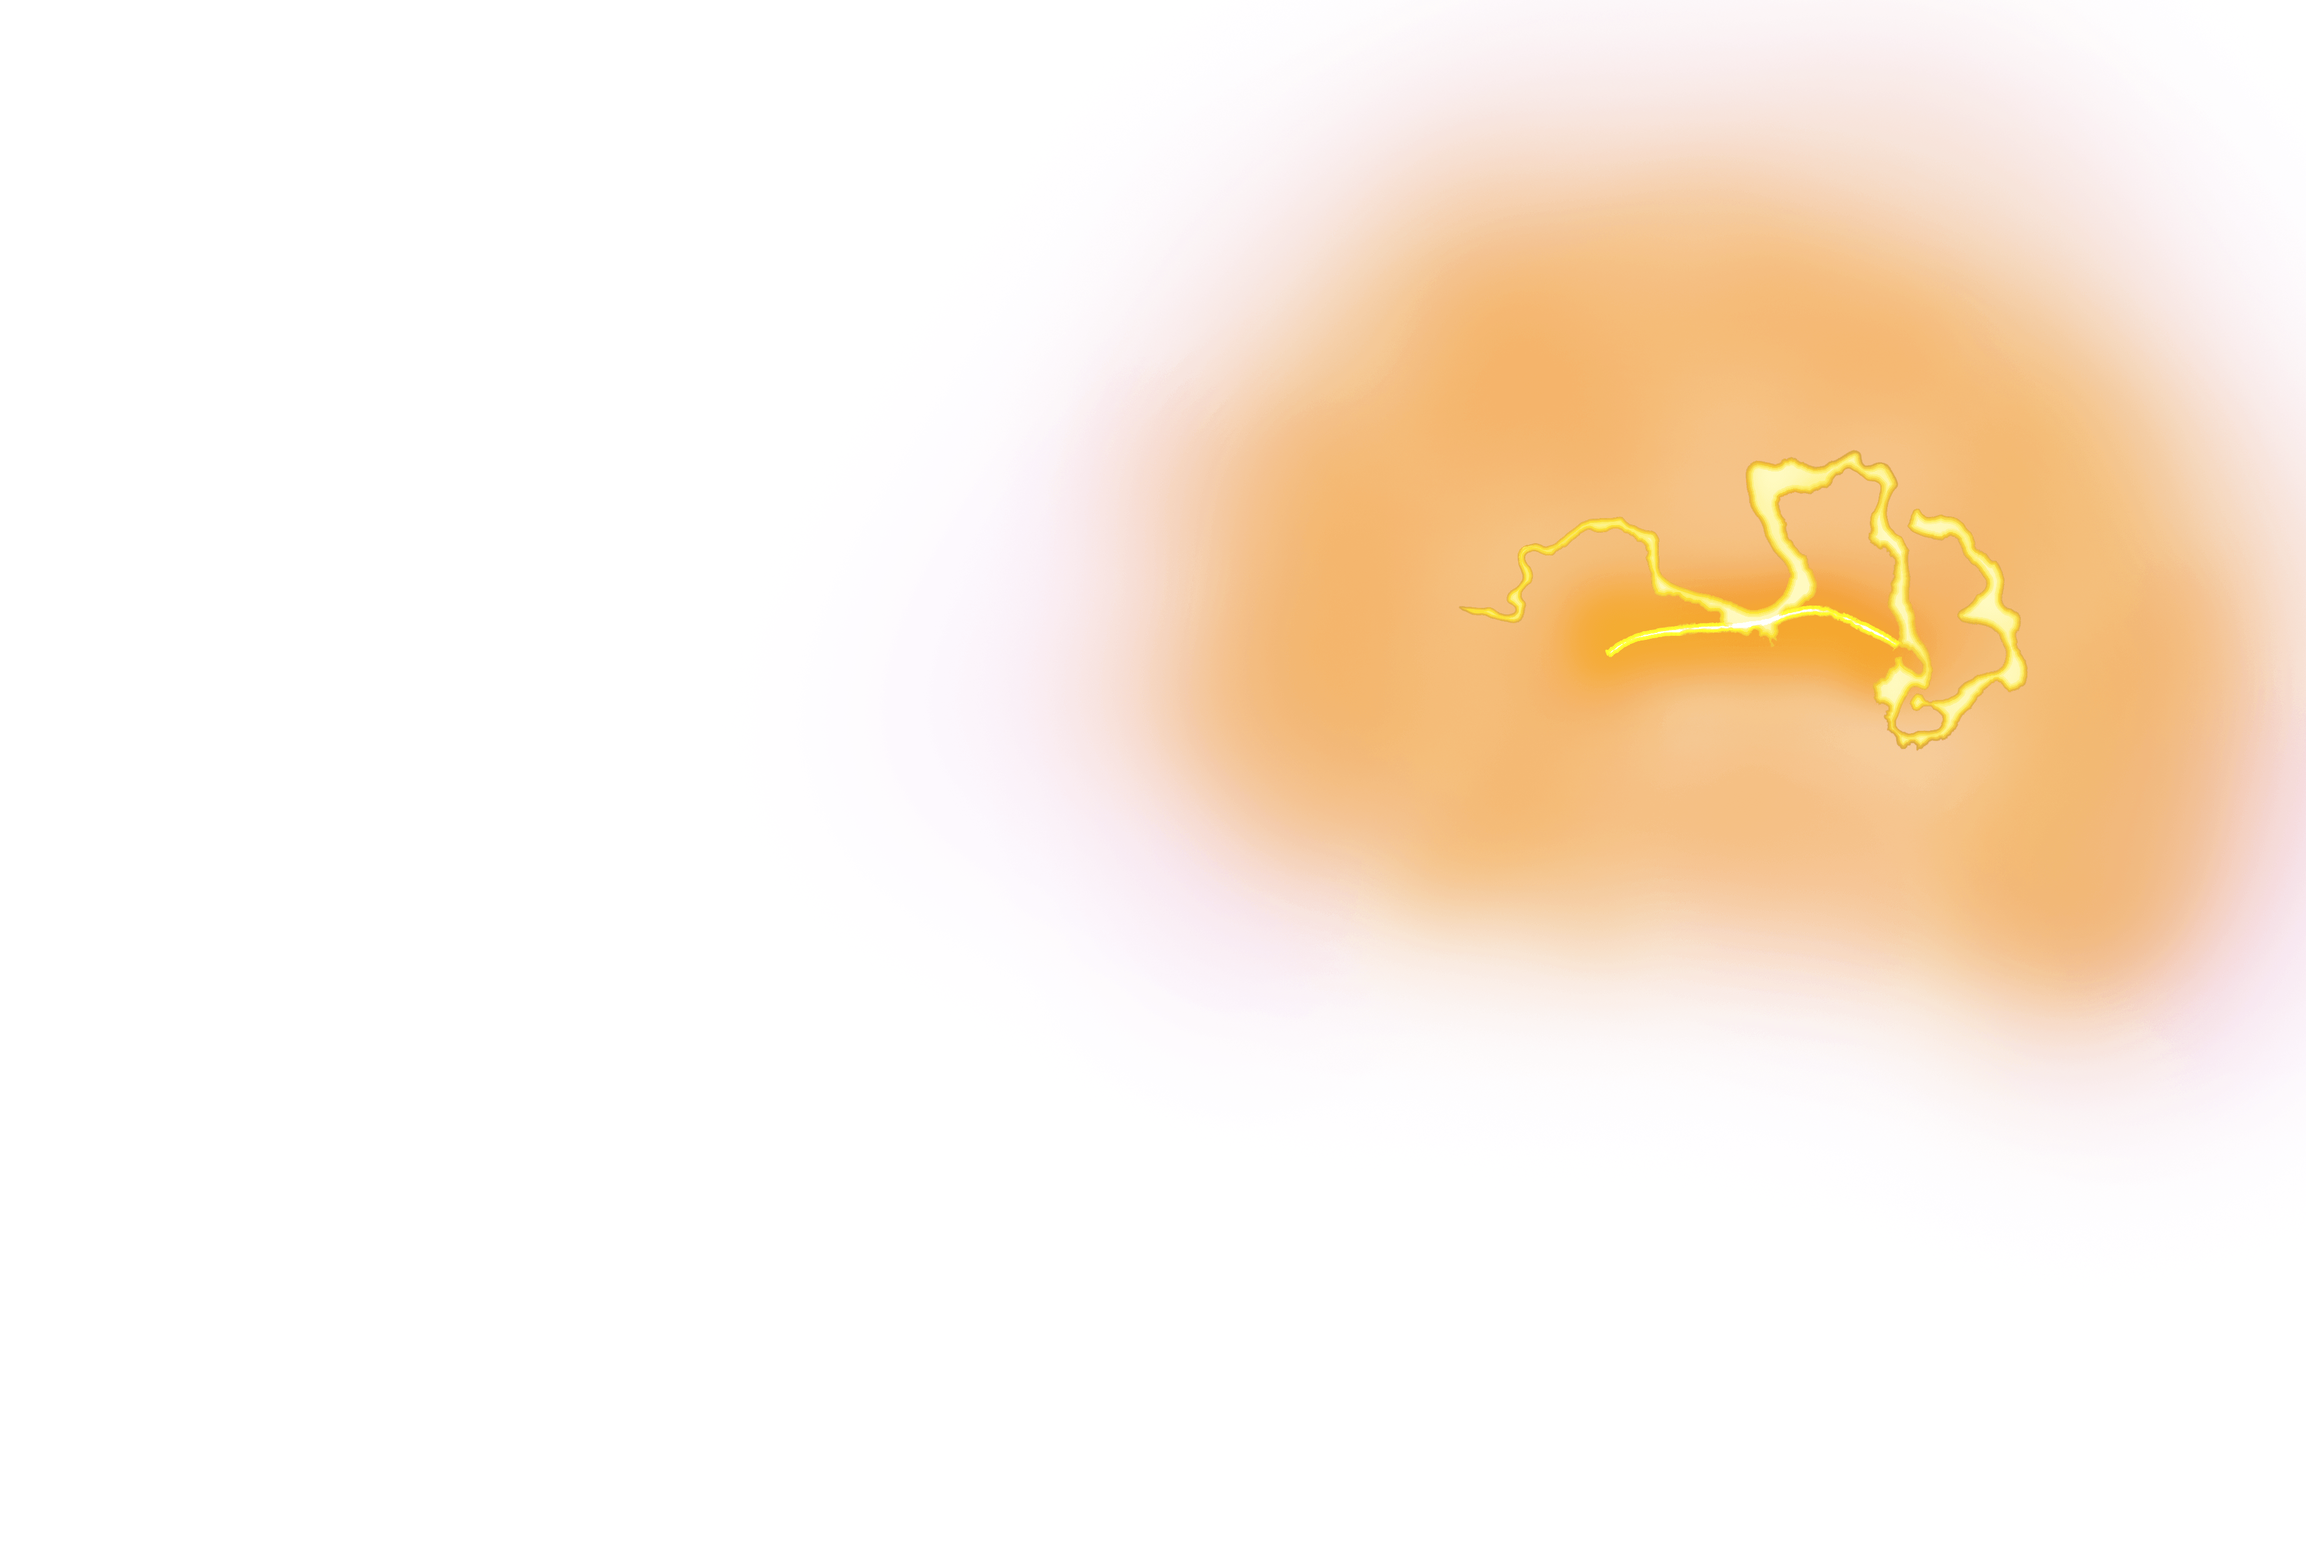
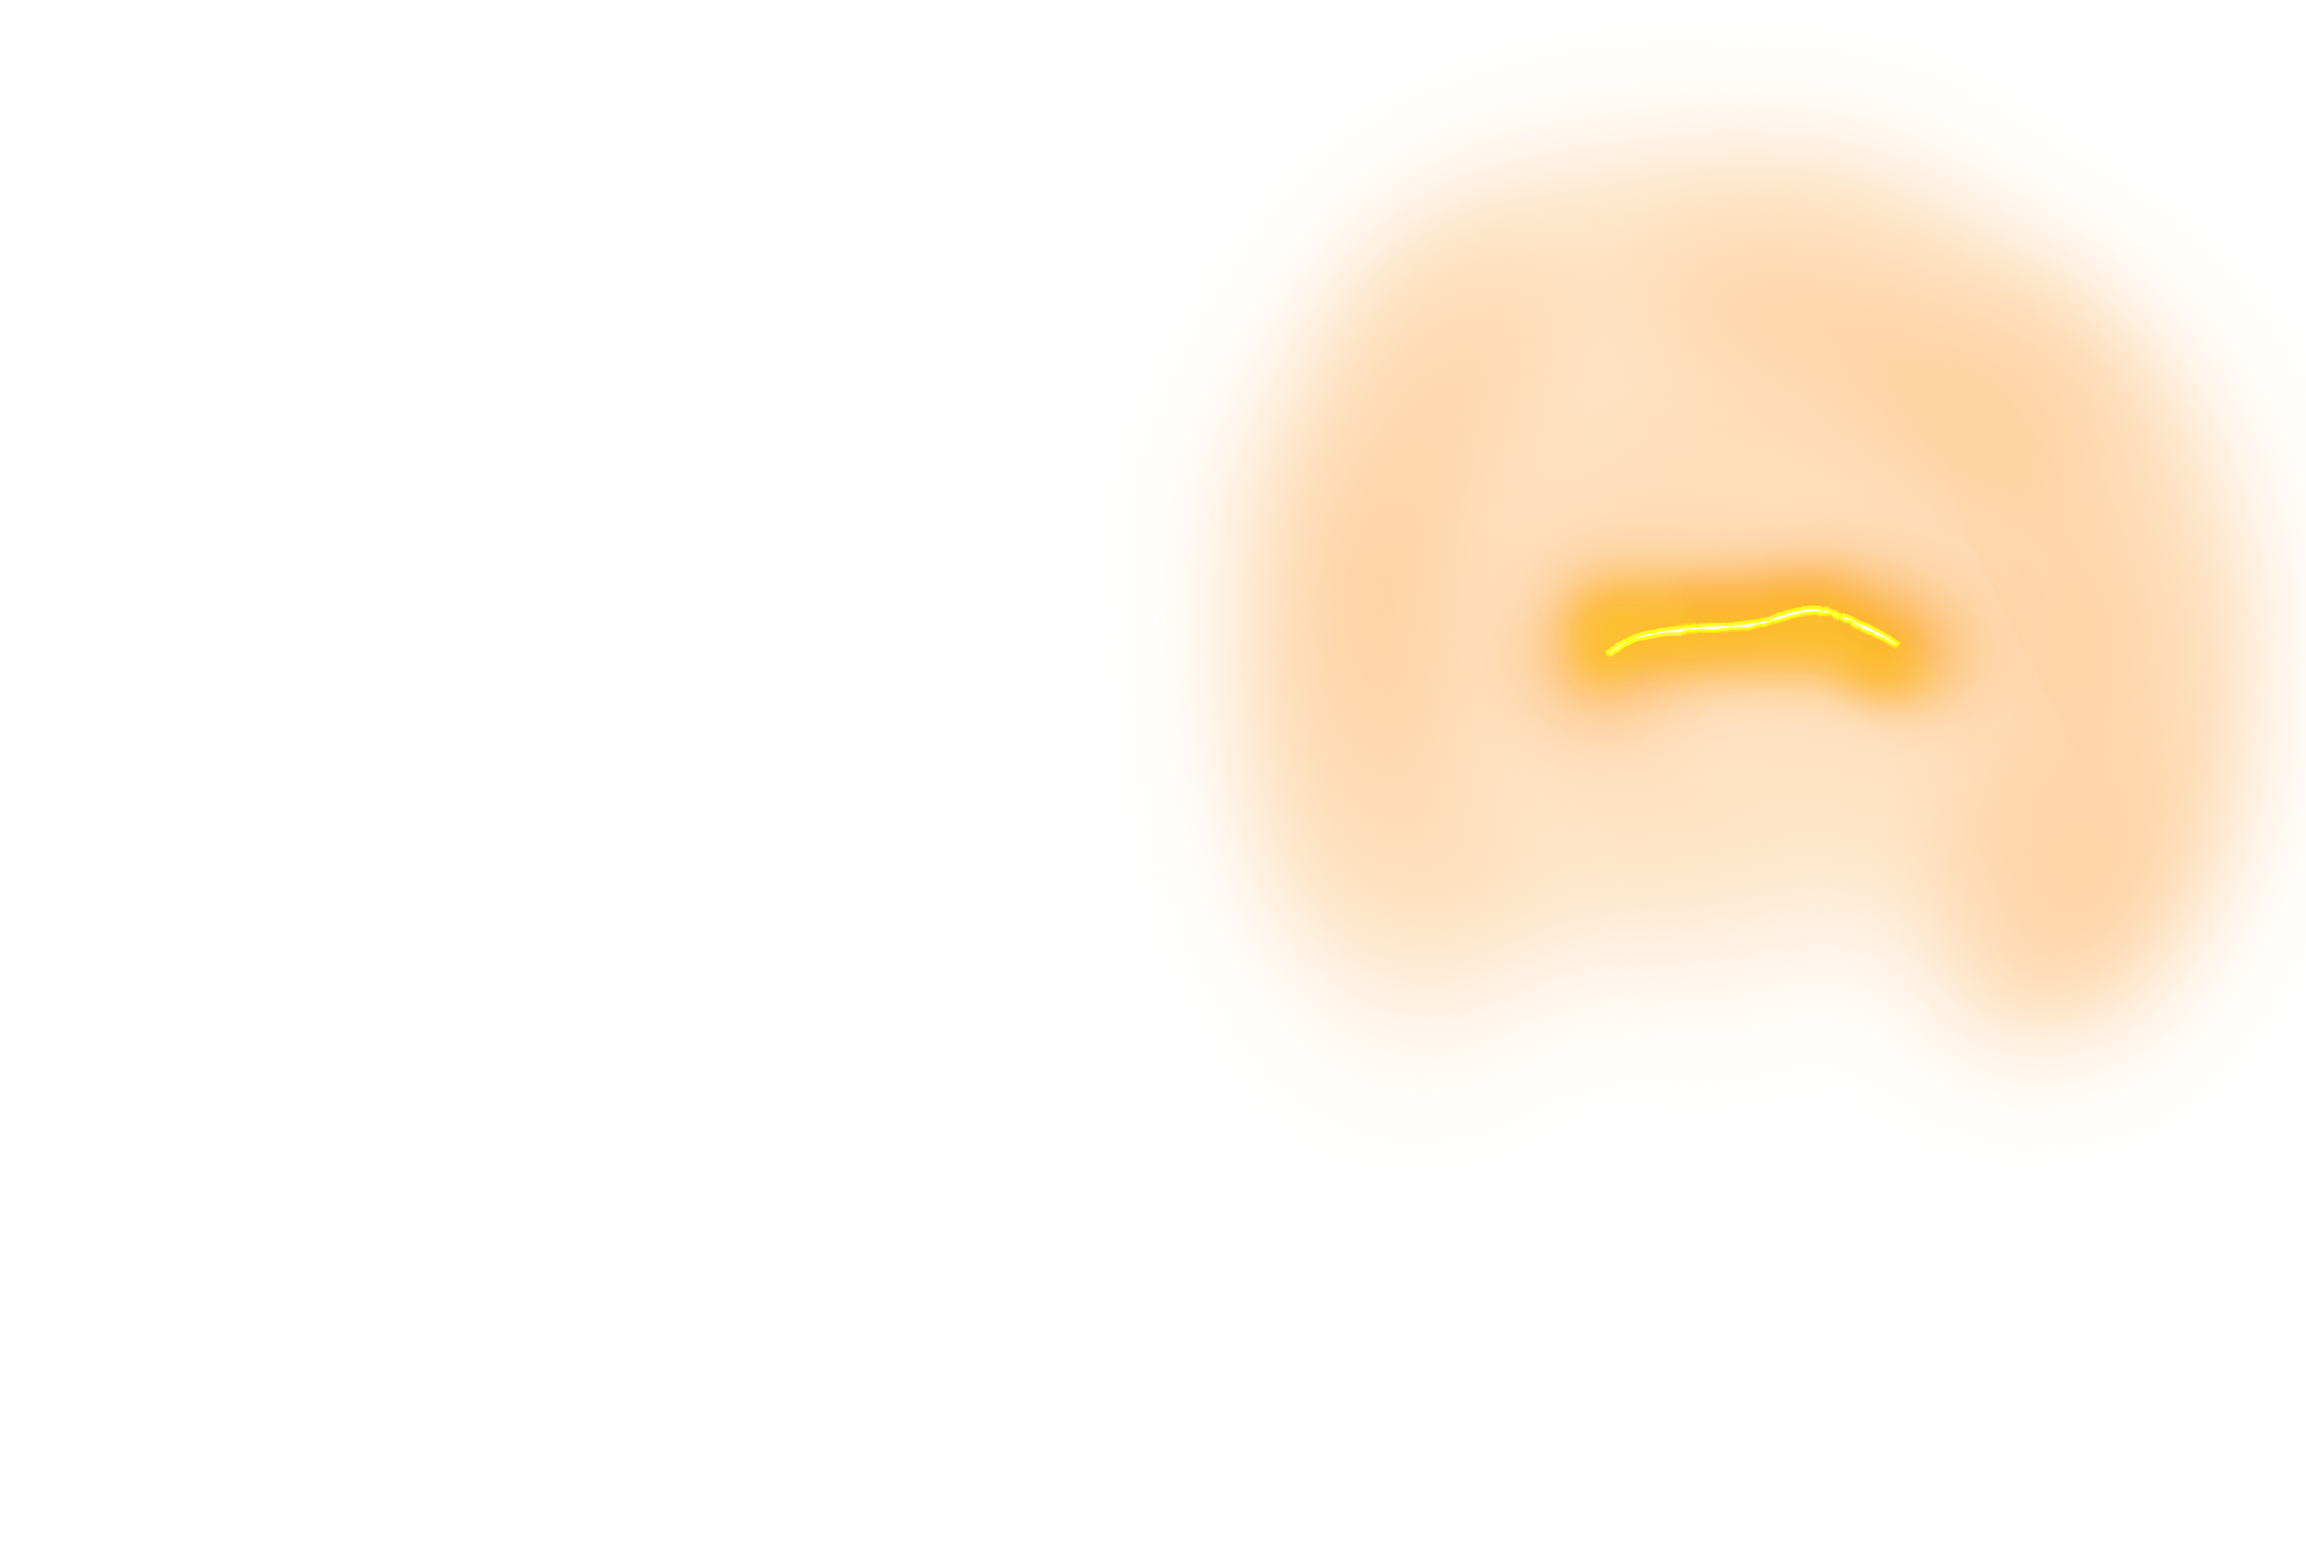
adjusted the graphics again, working colors

Changed region(s): [[0.4665, 0.0618, 1.0, 0.6796], [0.8397, 0.0618, 0.9019, 0.1544]]

diff --git a/src/index.html b/src/index.html
@@ -7,10 +7,9 @@
     <link rel="stylesheet" href="https://cdn.rawgit.com/konpa/devicon/df6431e323547add1b4cf45992913f15286456d3/devicon.min.css">
     <link rel="stylesheet" href="https://use.fontawesome.com/releases/v5.2.0/css/all.css" integrity="sha384-hWVjflwFxL6sNzntih27bfxkr27PmbbK/iSvJ+a4+0owXq79v+lsFkW54bOGbiDQ"
         crossorigin="anonymous">
+    <link href="https://fonts.googleapis.com/css?family=Lora|Nunito" rel="stylesheet">
     <link rel="stylesheet" type="text/css" href="./styles/styles.css">
-
 </head>
-
 <span class="anchor" id="HomeA"></span>
 
 <body>
@@ -47,9 +46,7 @@
             <img id="three" src="./assets/img/bulb3.png" class="bulbImg hideThis">
         </div>
         <main>
-
             <article class="content">
-
                 <span class="anchor" id="BioA"></span>
                 <section id="Bio" class="textContent">
                     <h2 class="sectionHead" id="BioHead">BIOGRAPHY</h2>
@@ -71,7 +68,6 @@
                         </div>
                     </div>
                 </section>
-
                 <span class="anchor" id="ProjectsA"></span>
                 <section id="Projects" class="textContent">
                     <h2 class="sectionHead" id="ProjectsHead">Projects</h2>
@@ -90,7 +86,6 @@
                         </div>
                     </div>
                 </section>
-
                 <span class="anchor" id="SkillsA"></span>
                 <section id="Skills" class="textContent">
                     <h2 class="sectionHead" id="SkillsHead">TECHNOLOGIES & SKILLS</h2>
@@ -169,7 +164,6 @@
                         </div>
                     </div>
                 </section>
-
                 <span class="anchor" id="ContactA"></span>
                 <section id="Contact" class="textContent">
                     <h2 class="sectionHead" id="ContactHead">CONTACT</h2>
@@ -179,7 +173,7 @@
                                 <p class="finalMessage desc centered">Have an idea?</p>
                                 <p class="finalMessage desc centered">Have a problem to solve?</p>
                                 <p class="finalMessage desc centered">Need someone to change a light bulb?</p>
-                                <p class="finalMessage desc centered"></p>I can be found in any of these places. Let's talk.</p>
+                                <p class="finalMessage desc centered">I can be found in any of these places. Let's talk.</p>
                             </div>
                             <div class="contactIcons centered">
                                 <a href="www.linkedin.com/in/erin-meaker">
@@ -192,7 +186,6 @@
                         </div>
                     </div>
                 </section>
-
             </article>
         </main>
     </div>
@@ -202,7 +195,6 @@
             <i class="fas fa-heart colorPop"></i>, &
             <i class="fas fa-bolt colorPop"></i> by Erin Meaker, 2018.</p>
     </footer>
-
     <script src="./bundle.js"></script>
 </body>
 

diff --git a/src/styles/styles.css b/src/styles/styles.css
@@ -288,7 +288,7 @@ html {
 body {
   background-color: #0D0D0D;
   color: #D6D6D6;
-  font-family: Lato, sans-serif;
+  font-family: Lora, serif, sans-serif, sans-serif;
   font-size: 16px;
   line-height: 24px;
   font-size: 1.6rem;
@@ -323,7 +323,7 @@ h3,
 h4,
 h5,
 h6 {
-  font-family: Lustria, serif;
+  font-family: Nunito, sans-serif, serif, serif;
   font-weight: 500;
   margin: 0px 0px 16px;
   margin: 0rem 0rem 1.6rem;
@@ -399,7 +399,7 @@ h6 {
   font-size: 40px;
   font-size: 4rem;
   text-align: center;
-  font-family: Lustria, serif; }
+  font-family: Nunito, sans-serif, serif, serif; }
 
 .contentSubhead {
   margin-top: -5px;
@@ -408,7 +408,7 @@ h6 {
   font-size: 20px;
   font-size: 2rem;
   text-align: center;
-  font-family: Lustria, serif; }
+  font-family: Nunito, sans-serif, serif, serif; }
 
 .divbar {
   border-style: solid;
@@ -490,12 +490,12 @@ ul li {
 .sectionHead {
   border-bottom: 1px solid #D6D6D6;
   border-top: 1px solid #D6D6D6;
-  font-family: Courier, serif;
+  font-family: Courier, serif, serif;
   font-size: 50px;
   font-size: 5rem; }
 
 .contactIcons {
-  background-color: #33045E;
+  background-color: #6a0469;
   color: #D6D6D6;
   padding: 10px;
   padding: 1rem;
@@ -519,8 +519,8 @@ ul li {
       max-width: 70%; } }
 
 .finalMessage {
-  font-family: Lustria;
-  background-color: #648500;
+  font-family: Nunito, sans-serif, serif;
+  background-color: #b67723;
   color: #D6D6D6;
   padding: 10px;
   padding: 1rem;
@@ -535,12 +535,12 @@ ul li {
       text-align: left; } }
 
 .colorPop {
-  color: #648500;
+  color: #b67723;
   font-size: 20px;
   font-size: 2rem; }
 
 footer {
-  border-top: 1px solid #648500;
+  border-top: 1px solid #b67723;
   min-height: 10%;
   padding: 10px;
   padding: 1rem; }

diff --git a/src/styles/_03variables.scss b/src/styles/_03variables.scss
@@ -5,13 +5,20 @@ Variables
 
 $base-background: #0D0D0D;
 $base-text-color: #D6D6D6;
-$contrast-background: #33045E;
+$contrast-background: #6a0469;
 $contrast-text-color: #D6D6D6;
-$accent-background: #648500;
+$accent-background: #b67723;
 $accent-text-color: #D6D6D6;
 $test-color: red;
-$body-font: Lato;
+$body-font: Lora,
+serif,
+sans-serif;
 $body-font-size: 1.6;
-$title-font: Lustria;
+$title-font: Nunito,
+sans-serif,
+serif;
 $strongweight: 700;
-$callout-font: Courier;
+$callout-font: Courier,
+serif;
+// font-family: 'Nunito', sans-serif;
+// font-family: 'Lora', serif;

diff --git a/src/scripts/main.js b/src/scripts/main.js
@@ -2,6 +2,6 @@ const backgroundChange = require('./backgroundChange')
 const navmenu = require('./navmenu')
 const preload = require('./preload')
 
-preload()
+// preload()
 backgroundChange()
 navmenu()
